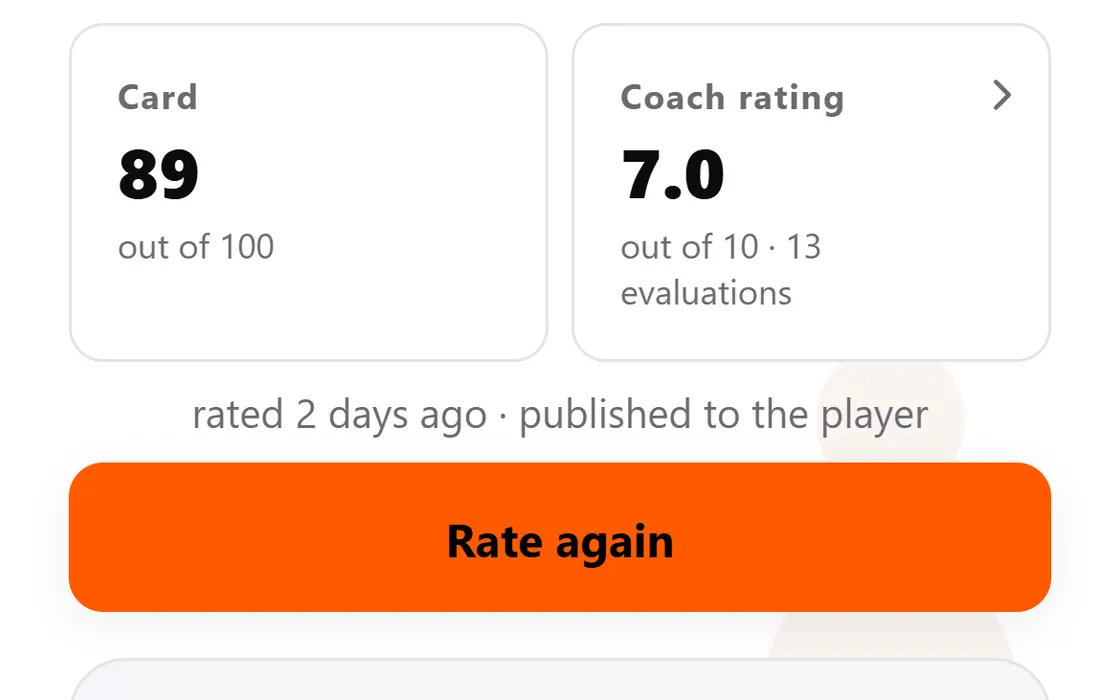
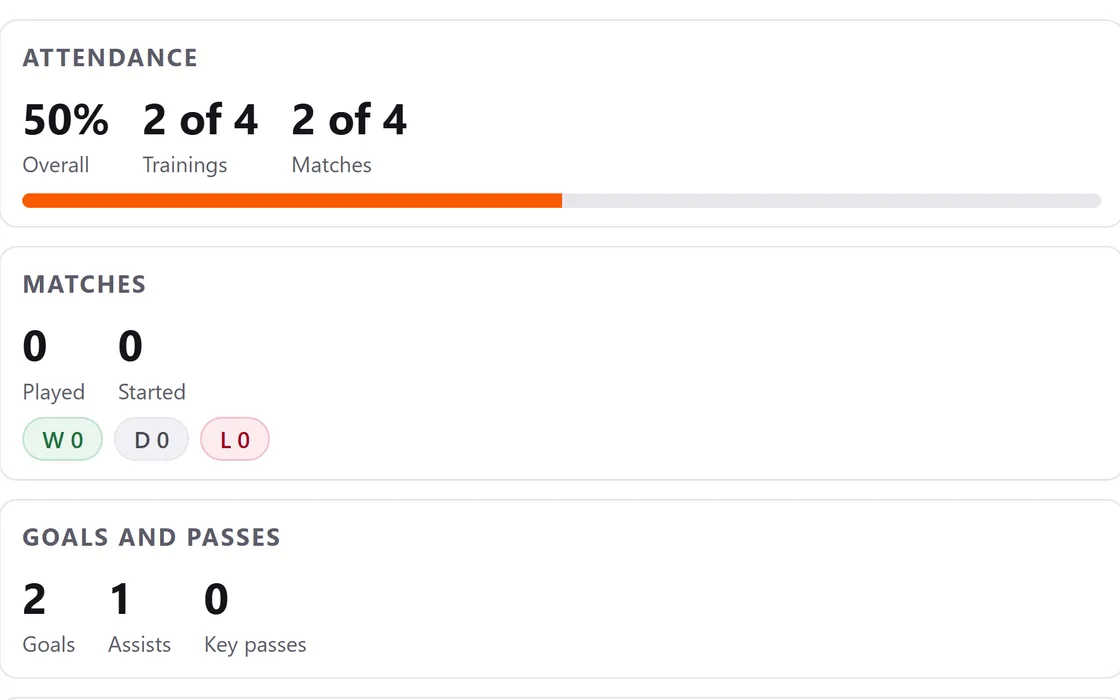
feat(features): the app's own screens for player cards, the monthly report and match requests, marked Example; each dialog shows its screen whole

diff --git a/src/components/home-page.tsx b/src/components/home-page.tsx
@@ -4,7 +4,7 @@ import { getDictionary, localePath, type Locale } from '@/i18n';
 import { publicFile } from '@/lib/public-file';
 import { turnstileSiteKey } from '@/lib/turnstile';
 
-import { CoachPhotos, MatchRequestCard } from './community-extras';
+import { CoachPhotos, MatchRequestCard, PlayersPhoto } from './community-extras';
 import { FaqAccordion } from './faq-accordion';
 import { CtaSplit } from './cta-split';
 import { FeatureCardFace } from './feature-card-face';
@@ -22,11 +22,15 @@ import { SiteFooter } from './site-footer';
 import { SiteHeader } from './site-header';
 import { TacticsSection } from './tactics-section';
 
+/** The feature cards whose pictures are the app's own screens, with sample data. */
+const SCREENSHOTS = new Set(['squad', 'parentReport', 'matchRequests']);
+
 /** A walk from the locker room (top) to the pitch (end), with the sections as panels in front. */
 export function HomePage({ locale }: { locale: Locale }) {
   const t = getDictionary(locale);
   /** What each feature's photo shows, where it has one. */
-  const photos: Partial<Record<string, { title: string; photo?: string }>> = t.features.items;
+  const photos: Partial<Record<string, { title: string; photo?: string; detail?: string }>> =
+    t.features.items;
   const cards = features.map(({ id, released }) => ({
     id,
     title: t.features.items[id].title,
@@ -34,7 +38,12 @@ export function HomePage({ locale }: { locale: Locale }) {
     bullets: t.features.items[id].bullets,
     alt: photos[id]?.photo ?? '',
     src: publicFile('features', id),
+    // The dialog's bigger picture: its own file where there is one (an app screen), else the card's
+    detail: publicFile('features', `${id}-detail`) ?? publicFile('features', id),
+    detailAlt: photos[id]?.detail ?? photos[id]?.photo ?? '',
     soon: released ? null : t.features.soon,
+    // App screens with sample data say so
+    example: SCREENSHOTS.has(id) ? t.features.example : null,
   }));
   return (
     <>
@@ -205,6 +214,7 @@ export function HomePage({ locale }: { locale: Locale }) {
                       </a>
                     }
                   />
+                  <PlayersPhoto alt={t.community.players} />
                 </div>
                 <div>
                   <MatchRequestCard t={t.community} />

diff --git a/src/components/feature-carousel.tsx b/src/components/feature-carousel.tsx
@@ -23,6 +23,11 @@ export type FeatureCard = {
   alt: string;
   src: string | null;
   soon: string | null;
+  /** The dialog's bigger picture, and what it shows. */
+  detail: string | null;
+  detailAlt: string;
+  /** "Example" on app screens with sample data. */
+  example: string | null;
 };
 type Controls = Dictionary['features']['controls'];
 
@@ -349,16 +354,18 @@ function FeatureDialog({
               />
             </svg>
           </button>
-          <div className="feature-dialog-photo">
-            {card.src && (
+          <div className="feature-dialog-photo" data-screen={card.example ? '' : undefined}>
+            {card.detail && (
               <Image
-                src={card.src}
-                alt={card.alt}
+                src={card.detail}
+                alt={card.detailAlt}
                 fill
                 sizes="(min-width: 48rem) 26rem, 90vw"
-                className="object-cover"
+                // An app screen is shown whole, on the app's white; a photo fills its frame
+                className={card.example ? 'object-contain' : 'object-cover'}
               />
             )}
+            {card.example && <span className="feature-example">{card.example}</span>}
           </div>
           <div className="feature-dialog-text">
             {card.soon && <span className="feature-soon static">{card.soon}</span>}

diff --git a/src/app/journey.css b/src/app/journey.css
@@ -775,6 +775,25 @@ html:not([data-js]) .phone {
   font-size: 0.875rem;
   font-weight: 600;
 }
+.feature-example {
+  position: absolute;
+  bottom: 0.6rem;
+  inset-inline-start: 0.6rem;
+  padding: 0.1rem 0.6rem;
+  border-radius: 999px;
+  background: #0b0b0c;
+  color: #fff;
+  font-size: 0.8125rem;
+  font-weight: 700;
+  letter-spacing: 0.04em;
+}
+:lang(ar) .feature-example {
+  letter-spacing: 0;
+}
+/* An app screen in the dialog: whole, on the app's own white */
+.feature-dialog-photo[data-screen] {
+  background: #fff;
+}
 .feature-soon.static {
   position: static;
   display: inline-block;

diff --git a/src/components/feature-card-face.tsx b/src/components/feature-card-face.tsx
@@ -20,6 +20,7 @@ export function FeatureCardFace({
     alt: string;
     src: string | null;
     soon: string | null;
+    example: string | null;
   };
   icon: ReactNode;
   more: string;
@@ -39,6 +40,7 @@ export function FeatureCardFace({
         )}
         <BoxCorner />
         {c.soon && <span className="feature-soon">{c.soon}</span>}
+        {c.example && <span className="feature-example">{c.example}</span>}
       </span>
       <span className="feature-body">
         <span className="feature-icon">{icon}</span>
